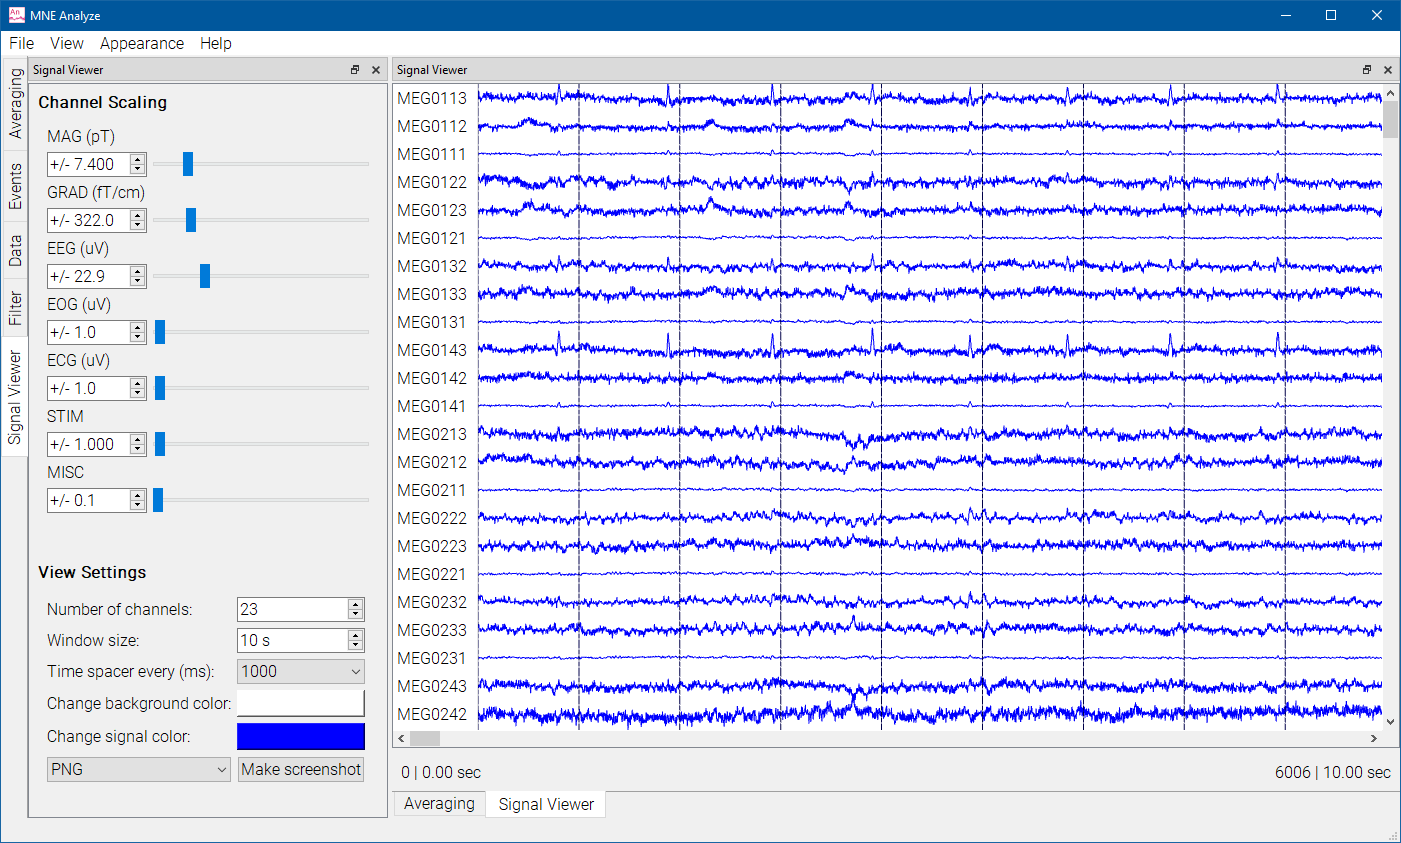
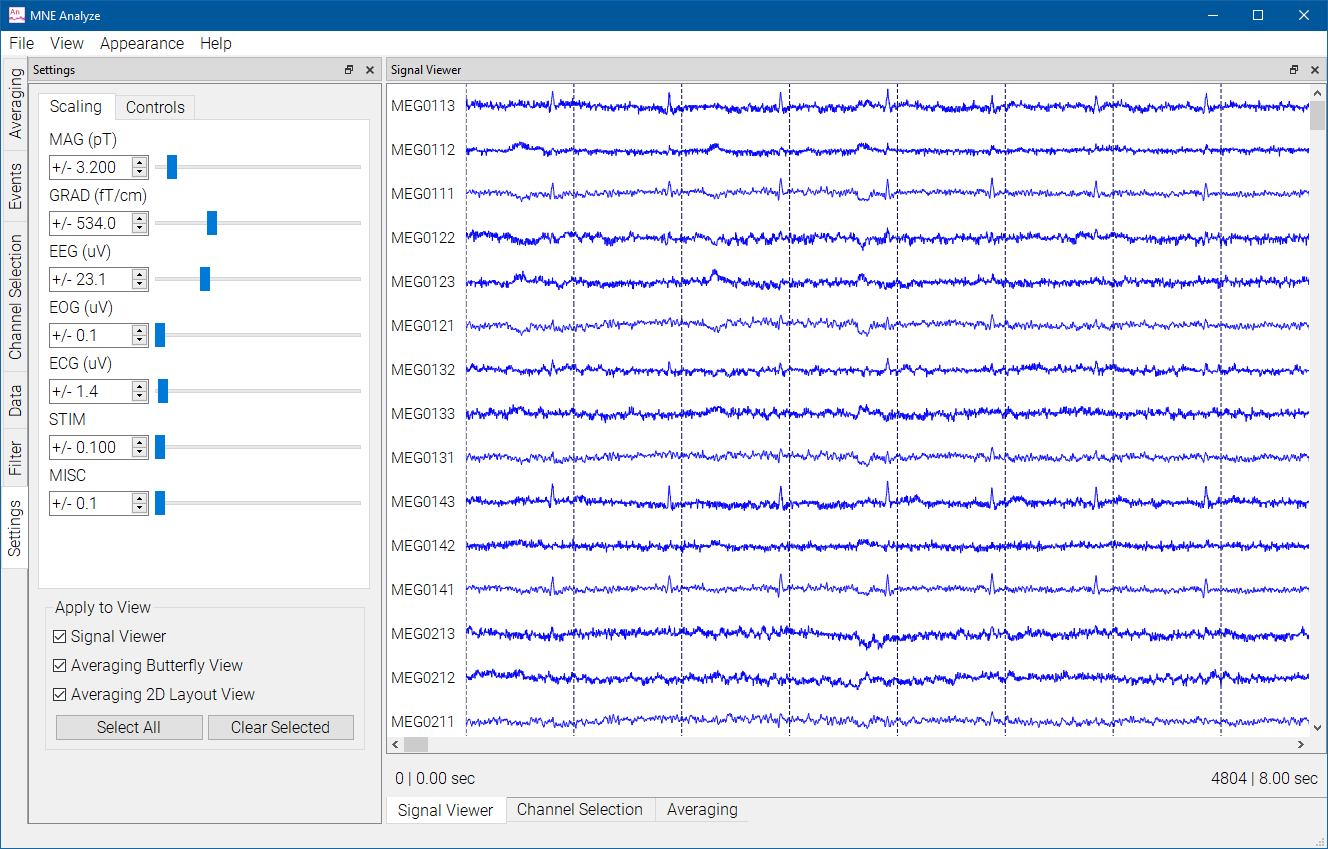
DOC: update documentation to reflect new names anf fucntionality

Changed region(s): [[0.0, 0.0, 1.0, 0.987]]

diff --git a/doc/gh-pages/pages/learn/analyze_rawdataviewer.md b/doc/gh-pages/pages/learn/analyze_rawdataviewer.md
@@ -1,5 +1,5 @@
 ---
-title: Raw Data Viewer
+title: Signal Viewer
 has_children: false
 parent: MNE Analyze
 grand_parent: Learn
@@ -7,14 +7,9 @@ nav_order: 3
 ---
 # Signal Viewer
 
-The signal viewer controls the plotting and displaying of the currently selected data file. It is separated into two components: the control widget and the viewer
-
+The signal viewer handles the plotting and displaying of the currently selected data file.
 ![](../../images/analyze/mne_an_1.png)
 
-The control widget allows for defining the plotting and display parameters.
+To control scaling and view parameters, use the [Settings](analyze_scaling.md) plugin.
 
-![](../../images/analyze/mne_an_rawdataviewer_1.png)
-
-The top set of control sliders define the channel plotting range for each type of channel. It is used for scaling the plotted data. The bottom set of controls is used for controlling channel display parameters, like window size, spacers, number of channels. Signal and background colors can also be adjusted. Screenshots can be taken of the current viewer window.
-
-The viewer portion plots the data and annotations, controlled by the [Event Manager](analyze_annotationmanager.md)
+The viewer also plots annotations, controlled by the [Events](analyze_annotationmanager.md) plugin.

diff --git a/doc/gh-pages/pages/learn/analyze_scaling.md b/doc/gh-pages/pages/learn/analyze_scaling.md
@@ -1,17 +1,21 @@
 ---
-title: Scaling
+title: Settings
 has_children: false
 parent: MNE Analyze
 grand_parent: Learn
 nav_order: 8
 ---
-#Scaling
+#Settings
 
-This plugin controls the scaling for all of the views in MNE Analyze.
+This plugin controls the scaling and view settings for all of the views in MNE Analyze.
 
 ![](../../images/analyze/mne_an_scaling1.png)
 
-Use the sliders to select scaling parameters for the different channel types.
+Use the sliders in the Scaling tab to select scaling parameters for the different channel types.
+
+![](../../images/analyze/mne_an_scaling3.png)
+
+Use the Controls tab to select view settings.
 
 ![](../../images/analyze/mne_an_scaling2.png)
 

diff --git a/doc/gh-pages/pages/development/analyze_plugin.md b/doc/gh-pages/pages/development/analyze_plugin.md
@@ -6,7 +6,7 @@ nav_order: 1
 ---
 # Creating a New Plugin
 
-This guide covers the creation of a new plugin
+This guide covers the creation of a new plugin.
 
 ## Overview
 
